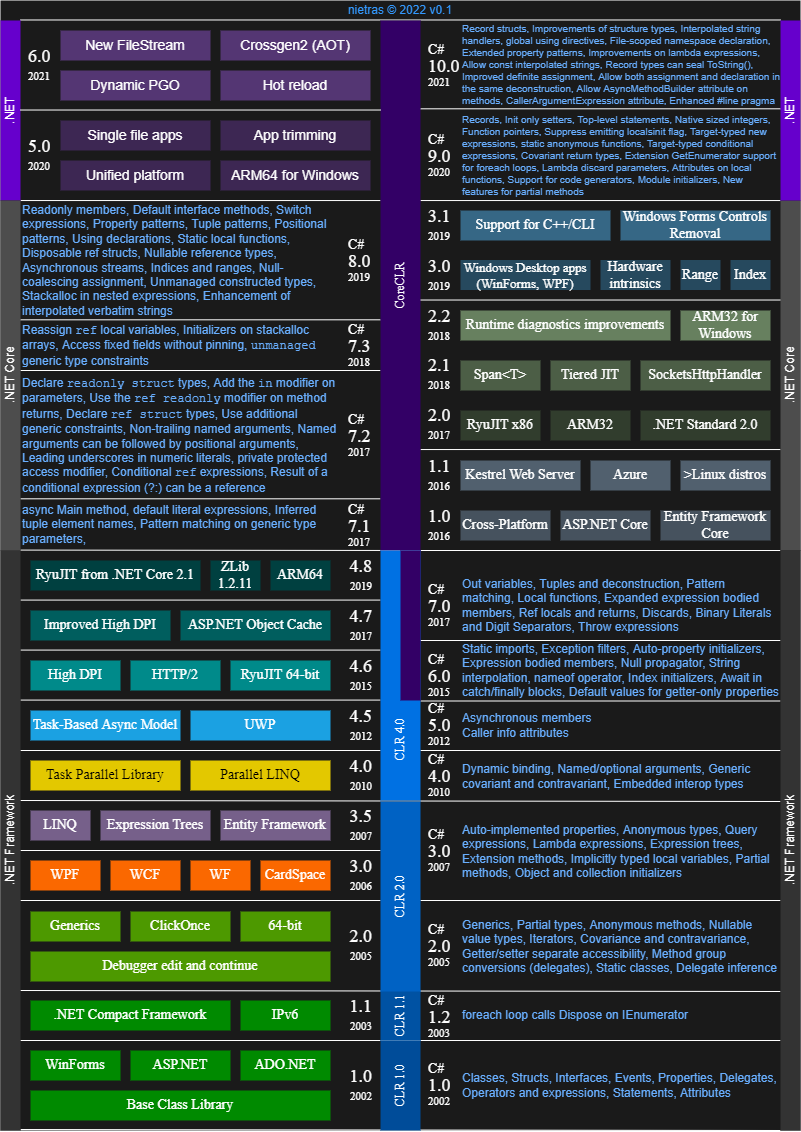
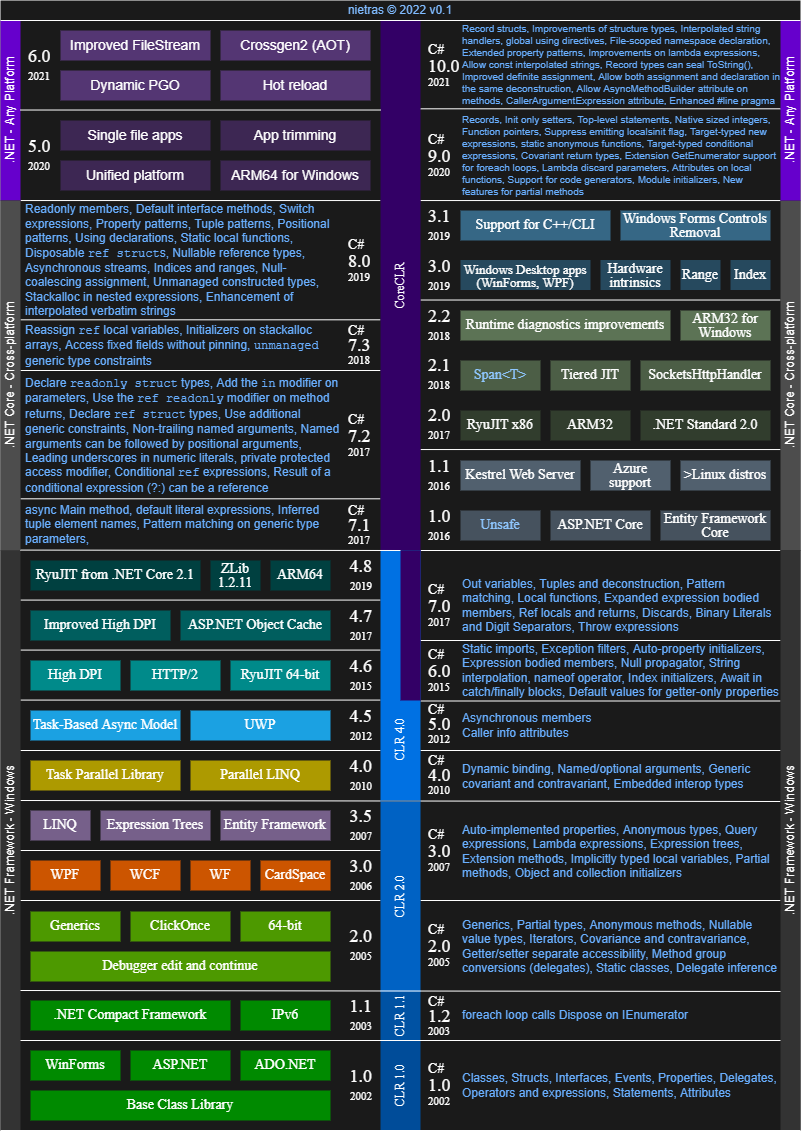
unsafe and more edits and tweaks

diff --git a/_posts/2022-02-12-dotnet-versions.md b/_posts/2022-02-12-dotnet-versions.md
@@ -1,18 +1,27 @@
 ---
 layout: post
-title: .NET and C# Versions - 20th Anniversary
+title: .NET and C# Versions - 20th Anniversary ♥
 ---
 
-![.NET and C# versions - 20th Anniversary]({{ site.baseurl }}/images/2022-02-dotnet-versions/dotnet-versions-export.png)
+![.NET and C# versions - 20th Anniversary ♥]({{ site.baseurl }}/images/2022-02-dotnet-versions/dotnet-versions-export.png)
 
 ### Notes and Disclaimers
+* Based on the wikipedia drawing of .NET Framework versions.
 * A lot of details are missing such is the art of summarizing.
 * A lot of alternative .NET Runtimes are missing; Mono, Silverlight etc.
-* Errors are no doubt a plenty.
+* Errors are probably present and in addition there are discrepancies between
+  sources and could not double check everything.
 * Features depicted as part of a version are probably not always representative.
-* It is not a timeline since .NET Framework and .NET Core releases overlap.
+  Additionally, there is no consistency in highlighted features since often more
+  about what else was in a release. Some releases have a lot of new features
+  while others not, but instead focus on performance or similar. So don't judge
+  a release only on new features.
 * No room to mention all the amazing performance improvements.
-* Loosely based on the wikipedia drawing of .NET Framework versions.
+* .NET is not just C# and a given C# version is not constrained to a given .NET
+  release. For example, C# 10 can be used to target .NET Framework 4.5. Some
+  newer features may not work or require adding a bit of attribute code in that
+  case.
+
 
 ### Sources
 * [.NET Framework version history](https://en.wikipedia.org/wiki/.NET_Framework_version_history)
